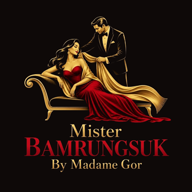
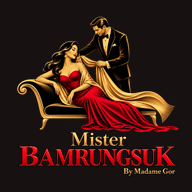
โลโก้ใหม่ (จาก canvas) ทั้งระบบ: รูปปกลิงก์ · โลโก้ในแอป · ไอคอนแอป/หน้าจอโฮม
- og-logo-2.jpg (ชื่อใหม่ให้ LINE/Facebook ดึงรูปใหม่ ไม่ใช้แคชเก่า)
- /brand/logo.png = โลโก้ใหม่ · icon-48/180/192/512 + maskable บนพื้นสีแบรนด์
- /pwa-icon/* ส่งต่อไปไฟล์คงที่ (เลิกใช้ตรา MB ตัวอักษร) · service worker v3 ล้างแคชไอคอนเก่า

Changed region(s): [[0.0625, 0.0938, 0.9375, 0.9375]]

diff --git a/src/app/layout.tsx b/src/app/layout.tsx
@@ -16,8 +16,8 @@ export const metadata: Metadata = {
   title: "Mister Bamrungsuk — เพื่อนกิน เพื่อนเที่ยว ระดับพรีเมียม",
   description: "เลือกเพื่อนระดับพรีเมียมได้ที่ Mister Bamrungsuk",
   metadataBase: new URL("https://misterbamrungsuk.com"),
-  openGraph: { siteName: "Mister Bamrungsuk", description: "เลือกเพื่อนระดับพรีเมียมได้ที่ Mister Bamrungsuk", images: [{ url: "/brand/og-logo.jpg", width: 1200, height: 630 }], locale: "th_TH", type: "website" },
-  twitter: { card: "summary_large_image", description: "เลือกเพื่อนระดับพรีเมียมได้ที่ Mister Bamrungsuk", images: ["/brand/og-logo.jpg"] },
+  openGraph: { siteName: "Mister Bamrungsuk", description: "เลือกเพื่อนระดับพรีเมียมได้ที่ Mister Bamrungsuk", images: [{ url: "/brand/og-logo-2.jpg", width: 1200, height: 630 }], locale: "th_TH", type: "website" },
+  twitter: { card: "summary_large_image", description: "เลือกเพื่อนระดับพรีเมียมได้ที่ Mister Bamrungsuk", images: ["/brand/og-logo-2.jpg"] },
   applicationName: "Mister Bamrungsuk",
   manifest: "/manifest.webmanifest",
   appleWebApp: { capable: true, title: "Mister Bamrungsuk", statusBarStyle: "black-translucent" },

diff --git a/public/sw.js b/public/sw.js
@@ -2,7 +2,7 @@
 // - static assets (_next/static, ไอคอน, ฟอนต์): cache-first
 // - หน้าเว็บ: network-first ถ้าเน็ตหลุดใช้ของที่แคชไว้ ไม่มีก็แสดง /offline
 // - API และข้อมูลเงิน/แชท: ไม่แคชเด็ดขาด (ต้องสดเสมอ)
-const VERSION = "mb-v2"; // เปลี่ยนเลขเมื่อไอคอน/แอปเปลี่ยน เพื่อล้างแคชเก่า
+const VERSION = "mb-v3"; // เปลี่ยนเลขเมื่อไอคอน/แอปเปลี่ยน เพื่อล้างแคชเก่า
 const STATIC = `${VERSION}-static`;
 const PAGES = `${VERSION}-pages`;
 const PRECACHE = ["/offline", "/pwa-icon/192", "/pwa-icon/512"];

diff --git a/src/app/pwa-icon/[size]/route.ts b/src/app/pwa-icon/[size]/route.ts
@@ -1,0 +1,12 @@
+import { NextResponse } from "next/server";
+
+// ไอคอนแอป Mister Bamrungsuk = โลโก้ใหม่ (จาก canvas) บนพื้นสีแบรนด์ — ไฟล์คงที่ public/brand/icon-{size}[-maskable].png
+// เส้นทางเดิม /pwa-icon/192, /pwa-icon/512, /pwa-icon/512?maskable=1 ยังใช้ได้ (ส่งต่อไปไฟล์คงที่)
+const ALLOWED = new Set([180, 192, 512]);
+
+export async function GET(req: Request, { params }: { params: Promise<{ size: string }> }) {
+  const { size: raw } = await params;
+  const size = ALLOWED.has(Number(raw)) ? Number(raw) : 192;
+  const maskable = new URL(req.url).searchParams.has("maskable");
+  return NextResponse.redirect(new URL(`/brand/icon-${size}${maskable ? "-maskable" : ""}.png`, req.url), 308);
+}

diff --git a/src/app/manifest.ts b/src/app/manifest.ts
@@ -16,7 +16,7 @@ export default function manifest(): MetadataRoute.Manifest {
     icons: [
       { src: "/brand/icon-192.png", sizes: "192x192", type: "image/png" },
       { src: "/brand/icon-512.png", sizes: "512x512", type: "image/png" },
-      { src: "/pwa-icon/512?maskable=1", sizes: "512x512", type: "image/png", purpose: "maskable" },
+      { src: "/brand/icon-512-maskable.png", sizes: "512x512", type: "image/png", purpose: "maskable" },
     ],
     shortcuts: [
       { name: "เรียกด่วน", url: "/matching" },
